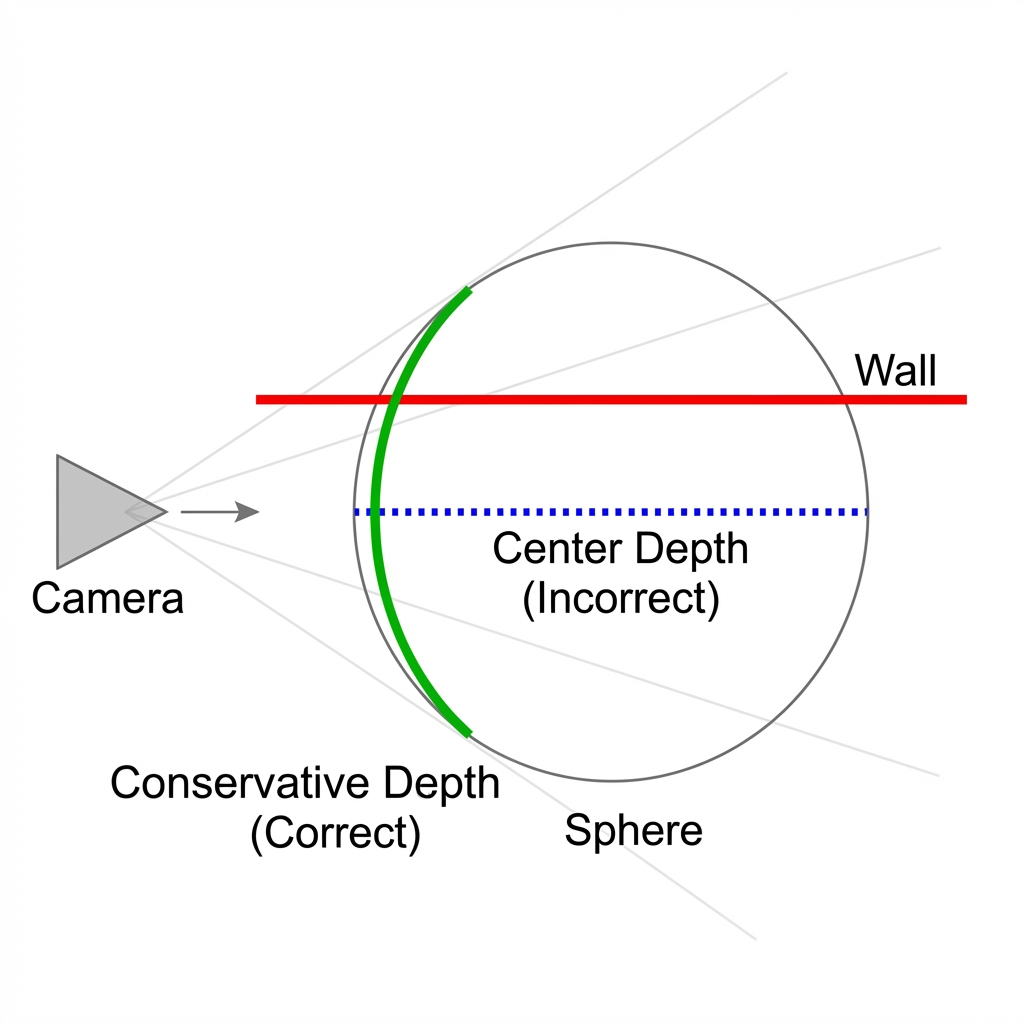
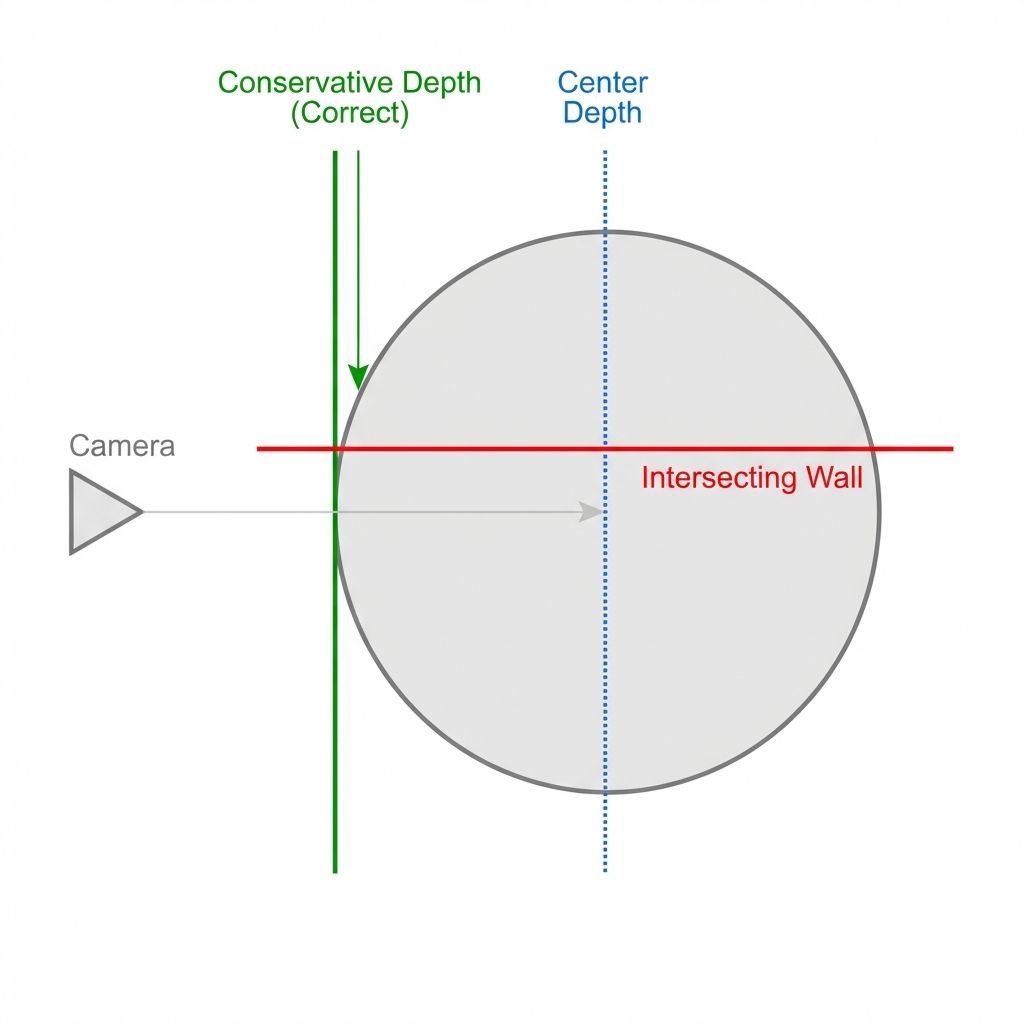
docs: Update Conservative Depth diagram and explanation

diff --git a/docs/billboard_optimization.md b/docs/billboard_optimization.md
@@ -72,8 +72,8 @@ Spheres located entirely behind the camera ($Z_{view} > 0$ and $d > r$) can math
 **Solution**: These are explicitly culled in the Vertex Shader by checking if `viewPos.z > 0.0`.
 
 ### 3. Conservative Depth
-To ensure correct Z-buffering when the sphere intersects other geometry (e.g. walls), the billboard quad is positioned at the sphere's **frontmost** surface point ($Z_{nearest} = Z_{view} + R$) rather than its center.
-This ensures the quad is drawn *before* any geometry that might be inside the sphere, relying on the Fragment Shader to output the correct per-pixel depth (`gl_FragDepth`).
+To ensure correct Z-buffering when the sphere intersects other geometry (e.g. a wall or floor passing through it), the billboard quad is positioned at the sphere's **frontmost plane** ($Z_{nearest} = Z_{view} + R$) rather than its center.
+This ensures the quad is drawn *before* any intersecting geometry that might be inside the sphere, safeguarding against incorrect occlusion. The Fragment Shader then outputs the precise per-pixel depth (`gl_FragDepth`) to carve out the true spherical shape.
 
 ![Conservative Depth Diagram](images/conservative_depth.png)
 
